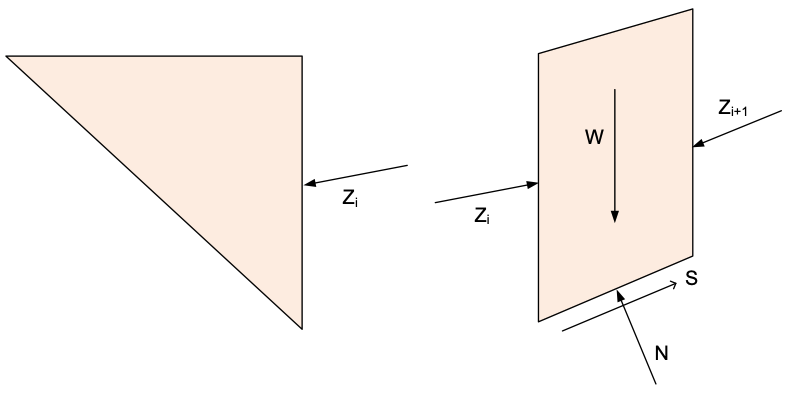
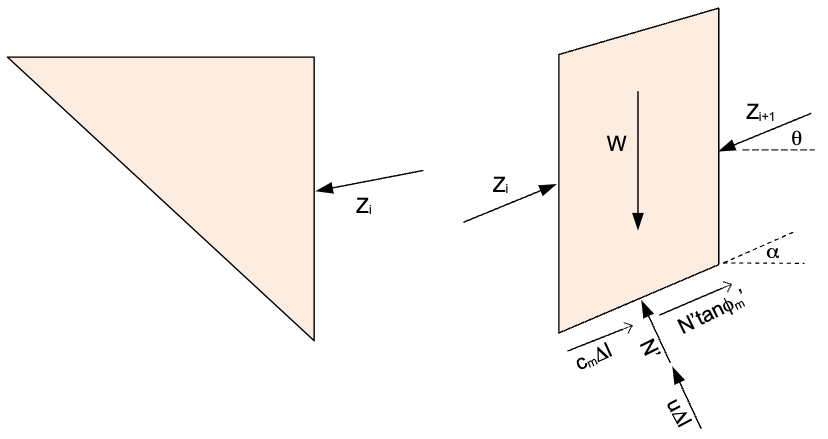
corrected equations in documentation

diff --git a/slice.py b/slice.py
@@ -393,7 +393,7 @@ def generate_slices(data, circle=None, non_circ=None, num_slices=20):
     # Slice data were built by iterating from left to right. Flip the order slice data for right-facing slopes.
     # Slice 1 should be at the bottom and slice n at the top. This makes the slice data consistent with the
     # sign convention for alpha and the free-body diagram used to calculate forces.
-    if right_facing:
-        df = df.iloc[::-1].reset_index(drop=True)
+    # if right_facing:
+    #     df = df.iloc[::-1].reset_index(drop=True)
 
     return True, (df, clipped_surface)

diff --git a/docs/methods/line_of_thrust.md b/docs/methods/line_of_thrust.md
@@ -30,9 +30,9 @@ The shear force ($S_i$) acting on the bottom of the slice is the mobilized shear
 
 where $\tau_m$ is the mobilized shear strength of the soil and $\Delta l$ is the length of the slice. The mobilized shear strength is equal to:
 
->>$\tau_m = \dfrac{c + (\sigma-u)*tan\phi}{F}$
+>>$\tau_m = \dfrac{c + (\sigma-u)tan\phi}{F}$
  
->>$\tau_m = c_m + (\sigma')*tan\phi_m$
+>>$\tau_m = c_m + \sigma' tan\phi_m$
 
 where:
 
@@ -65,7 +65,8 @@ The unknowns in this case are the normal force ($N'$) and magnitude of the side 
 
 ![sclice_fe_next.png](images/sclice_fe_next.png){width=700px }
 
-The side force on the left side ($Z_{i-1}$) is known from the previous slice. The side force on the right side ($Z_{i+1}$) is unknown. The normal force ($N$) is also unknown. So again, we have two equations and two unknowns. 
+The side force on the left side ($Z_{i-1}$) is known from the previous slice. The side force on the right side ($Z_
+{i+1}$) is unknown. The effective normal force ($N'$) is also unknown. So again, we have two equations and two unknowns. 
 
 We can continue this process until we reach the top slice:
 
@@ -77,31 +78,37 @@ At this point, there is no side force on the right side, so we have two equation
 
 As shown in the previous section, we need to solve for two unknowns at each slice. For the general case, we can set up equations to solve for the unknowns as follows. First, we sum forces in the x-direction:
 
->>$\sum F_x = 0 \Rightarrow S*cos(\alpha) - N*sin(\alpha) + Z_{i}*cos(\theta) - Z_{i+1}*cos(\theta) = 0$
+>>$\sum F_x = 0 \Rightarrow \left[c_m \Delta l + N'*tan(\phi_m)\right]*cos(\alpha) - (N' + u \Delta l)*sin(\alpha) + Z_{i}
+> *cos(\theta) - Z_{i+1}*cos(\theta) = 0$
 
->>$\left[c_m + (N - u*\Delta l)*tan(\phi_m)\right]*cos(\alpha) - N*sin(\alpha) + Z_{i}*cos(\theta) - Z_{i+1}*cos(\theta) = 0$
+>>$c_m \Delta l *cos(\alpha) + N'*tan(\phi_m)*cos(\alpha) - N'*sin(\alpha) - u \Delta l*sin(\alpha) - + Z_{i}*cos
+> (\theta) - Z_
+> {i+1}*cos(\theta) = 0$
 
->>$c_m*cos(\alpha) + N*tan(\phi_m)*cos(\alpha) - u*\Delta l*tan(\phi_m)*cos(\alpha) - N*sin(\alpha) + Z_{i}*cos(\theta) - Z_{i+1}*cos(\theta) = 0$
+>>$c_m \Delta l *cos(\alpha) + N'*\left[tan(\phi_m)*cos(\alpha) - sin(\alpha)\right] - u \Delta l*sin(\alpha) + Z_{i}
+> *cos
+> (\theta) - Z_{i+1}*cos(\theta) = 0$
 
-Rearranging in terms of our two unknows ($N$ and $Z_{i+1}$) gives:
+Rearranging in terms of our two unknows ($N'$ and $Z_{i+1}$) gives:
 
->>$N*tan(\phi_m)*cos(\alpha) - N*sin(\alpha) - Z_{i+1}*cos(\theta) = - c_m*cos(\alpha) + u*\Delta l*tan(\phi_m)*cos(\alpha) - Z_{i}*cos(\theta)$
-
->>$N*\left[tan(\phi_m)*cos(\alpha) - sin(\alpha)\right] - Z_{i+1}*cos(\theta) = - c_m*cos(\alpha) + u*\Delta l*tan(\phi_m)*cos(\alpha) - Z_{i}*cos(\theta)$
+>>$N'*\left[tan(\phi_m)*cos(\alpha) - sin(\alpha)\right] - Z_{i+1}*cos(\theta) = - c_m \Delta l *cos(\alpha) + u \Delta l*sin(\alpha) - Z_{i}*cos(\theta)$
 
 Likewise, we can sum forces in the y-direction:
 
->>$\sum F_y = 0 \Rightarrow S*sin(\alpha) + N*cos(\alpha) - W + Z_{i}*sin(\theta) - Z_{i+1}*sin(\theta) = 0$
+>>$\sum F_y = 0 \Rightarrow \left[c_m \Delta l + N'*tan(\phi_m)\right]*sin(\alpha) + (N' + u \Delta l)*cos(\alpha) - 
+> W + Z_{i}*sin(\theta) - Z_{i+1}*sin(\theta) = 0$
 
->>$\left[c_m + (N - u*\Delta l)*tan(\phi_m)\right]*sin(\alpha) + N*cos(\alpha) - W + Z_{i}*sin(\theta) - Z_{i+1}*sin(\theta) = 0$
+>>$c_m \Delta l *sin(\alpha) + N'*tan(\phi_m)*sin(\alpha) + N'*cos(\alpha) + u \Delta l*cos(\alpha) - W + Z_{i}*sin
+> (\theta) - 
+> Z_{i+1}*sin(\theta) = 0$
 
->>$c_m*sin(\alpha) + N*tan(\phi_m)*sin(\alpha) - u*\Delta l*tan(\phi_m)*sin(\alpha) + N*cos(\alpha) - W + Z_{i}*sin(\theta) - Z_{i+1}*sin(\theta) = 0$
+>>$c_m \Delta l *sin(\alpha) + N'*\left[tan(\phi_m)*sin(\alpha) + *cos(\alpha)\right] + u \Delta l*cos(\alpha) - W + 
+> Z_{i}*sin
+> (\theta) - Z_{i+1}*sin(\theta) = 0$
 
 Rearranging in terms of our two unknows ($N$ and $Z_{i+1}$) gives:
 
->>$N*tan(\phi_m)*sin(\alpha) + N*cos(\alpha) - Z_{i+1}*sin(\theta) = - c_m*sin(\alpha) + u*\Delta l*tan(\phi_m)*sin(\alpha) + W - Z_{i}*sin(\theta)$
-
->>$N*\left[tan(\phi_m)*sin(\alpha) + cos(\alpha)\right] - Z_{i+1}*sin(\theta) = - c_m*sin(\alpha) + u*\Delta l*tan(\phi_m)*sin(\alpha) + W - Z_{i}*sin(\theta)$
+>>$N'*\left[tan(\phi_m)*sin(\alpha) + cos(\alpha)\right] - Z_{i+1}*sin(\theta) = -c_m \Delta l *sin(\alpha) - u\Delta l*cos(\alpha) + W - Z_{i}*sin(\theta)$
 
 Now we can take these two equations and rearrange them into a matrix form. We can write the two equations as:
 
@@ -123,7 +130,7 @@ The vector $x$ is given by:
 
 The vector $b$ is given by:
 
->>$b = \begin{bmatrix}- c_m*cos(\alpha) + u*\Delta l*tan(\phi_m)*cos(\alpha) - Z_{i}*cos(\theta)\\- c_m*sin(\alpha) + u*\Delta l*tan(\phi_m)*sin(\alpha) + W - Z_{i}*sin(\theta)\end{bmatrix}$
+>>$b = \begin{bmatrix}- c_m \Delta l *cos(\alpha) + u \Delta l*sin(\alpha) - Z_{i}*cos(\theta)\\-c_m \Delta l *sin(\alpha) - u\Delta l*cos(\alpha) + W - Z_{i}*sin(\theta)\end{bmatrix}$
 
 The matrix equation can then be solved for the two unknowns
 ($N$ and $Z_{i+1}$) using the numpy linalg method. The solution is given by:
